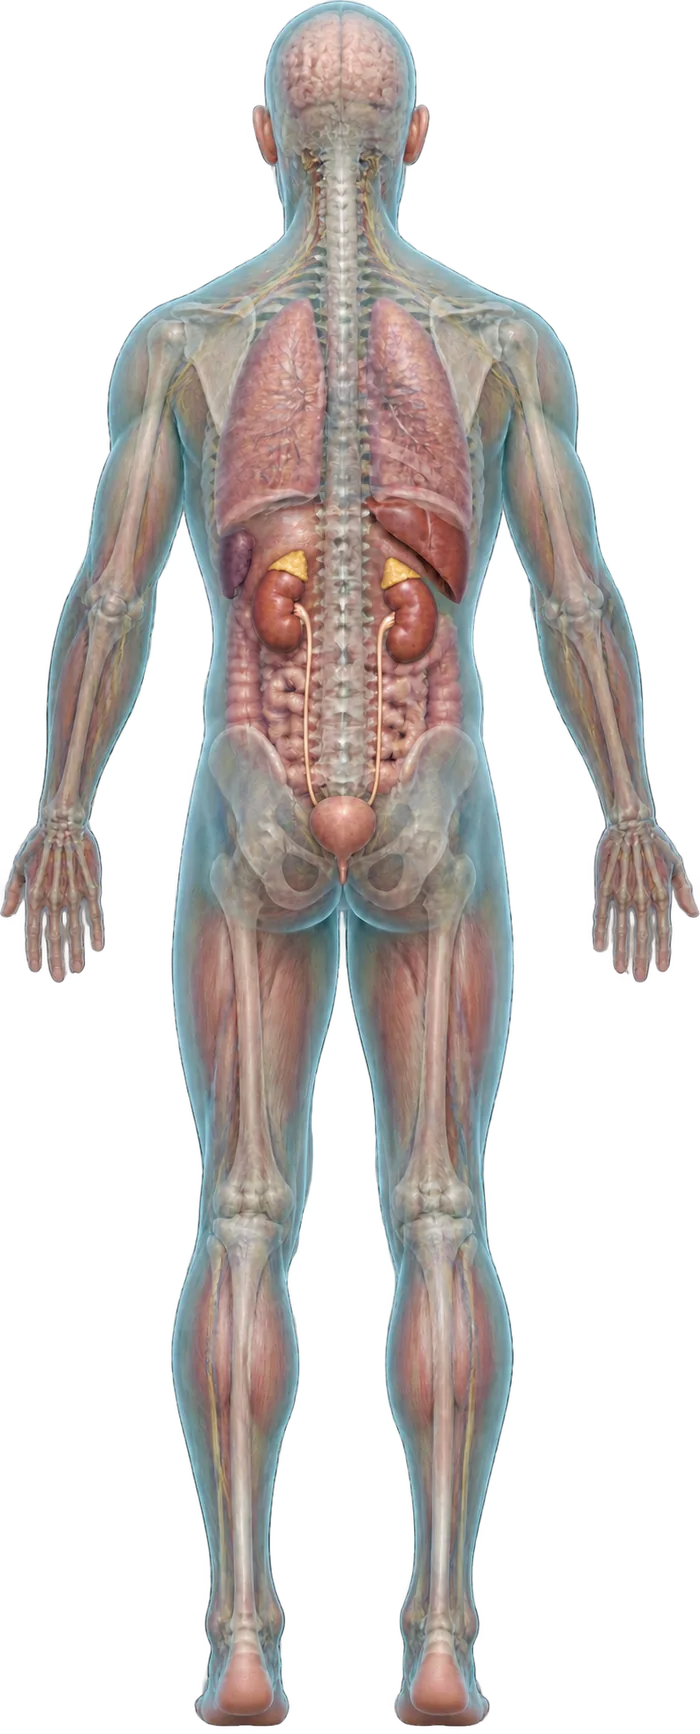
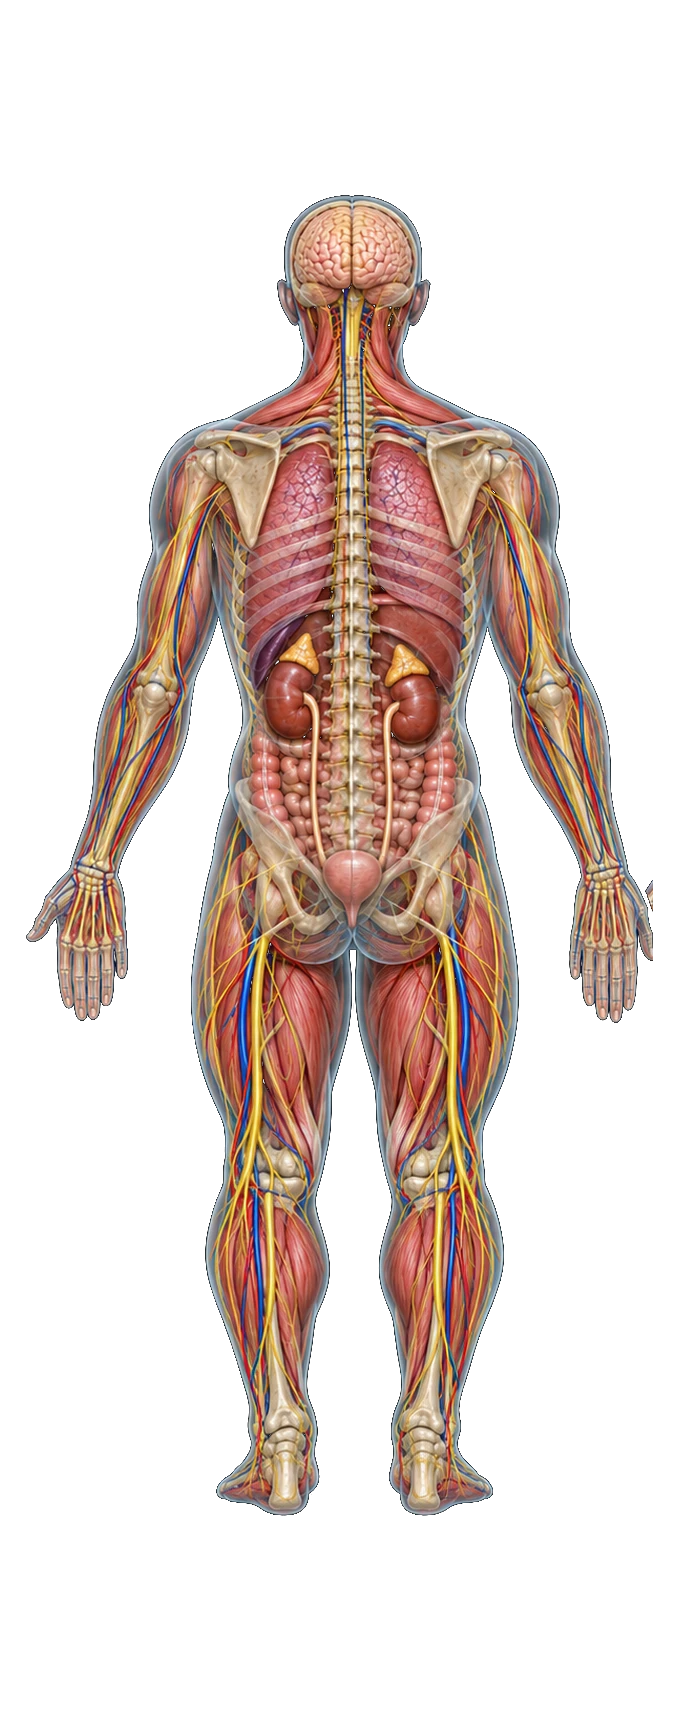
Anatomia: imagens novas sem texto (frente e costas) e areas recalibradas
- Ilustracao nova, sem rotulos, recortada em frente e costas, centrada na
  linha media e reduzida para caber inteira (com as maos), fundo transparente.
- A vista de costas veio com figado e baco trocados de lado: espelhada, para o
  lado direito da pessoa ficar a direita da tela.
- ORGAOS_FRENTE, ORGAOS_COSTAS e PULMOES_FRENTE medidos de novo numa grade do
  viewBox; area minima 10x10 para toque no celular.

Claude-Session: https://claude.ai/code/session_01NMsCMu7g1f9M4faJtZEJC5

diff --git a/frontend/src/components/formasCorpo.ts b/frontend/src/components/formasCorpo.ts
@@ -22,32 +22,34 @@ export interface OrgaoImagem {
 
 // Orgaos clicaveis (tem exames de sangue associados) — vista de frente.
 // Caixas medidas diretamente na imagem composta unica (orgaos-frente.webp,
-// 700x1725, desenhada com "slice": vx = 30.145 + px*0.37101, vy = 8 + py*0.37101).
-// Recalibradas em 2026-09 sobrepondo uma grade do viewBox na propria imagem.
+// 700x1734, desenhada com "slice": vx = 30.819 + px*0.36909, vy = 8 + py*0.36909).
+// Recalibradas em 2026-09 (imagem nova, sem texto) sobrepondo uma grade do viewBox.
 // Itens sem imagem propria (arquivo '') aparecem so como area de clique.
+// Areas com no minimo 10x10 no viewBox, para dar para tocar no celular.
 export const ORGAOS_FRENTE: OrgaoImagem[] = [
-  { id: 'hipofise', sistema: 'hormonios', nome: 'Hipófise', arquivo: '', proporcao: 1, caixa: { x: 155, y: 44, w: 10, h: 8 } },
-  { id: 'tireoide', sistema: 'tireoide', nome: 'Tireoide', arquivo: '', proporcao: 1, caixa: { x: 148, y: 95, w: 25, h: 13 } },
-  { id: 'coracao', sistema: 'coracao', nome: 'Coração', arquivo: '', proporcao: 1, caixa: { x: 151, y: 145, w: 40, h: 50 } },
-  { id: 'figado', sistema: 'figado', tambem: ['proteinas'], nome: 'Fígado', arquivo: '', proporcao: 1, caixa: { x: 112, y: 193, w: 66, h: 35 } },
-  { id: 'baco', sistema: 'sangue', nome: 'Baço', arquivo: '', proporcao: 1, caixa: { x: 200, y: 196, w: 12, h: 31 } },
-  { id: 'pancreas', sistema: 'pancreas', nome: 'Pâncreas', arquivo: '', proporcao: 1, caixa: { x: 145, y: 227, w: 53, h: 18 } },
-  // Corrigido: rim DIREITO da pessoa fica a ESQUERDA da tela (vista de frente).
-  { id: 'rimD', sistema: 'rins', nome: 'Rim direito', arquivo: '', proporcao: 1, caixa: { x: 121, y: 233, w: 22, h: 27 } },
-  { id: 'rimE', sistema: 'rins', nome: 'Rim esquerdo', arquivo: '', proporcao: 1, caixa: { x: 187, y: 233, w: 20, h: 26 } },
-  { id: 'adrenalD', sistema: 'hormonios', nome: 'Suprarrenal direita', arquivo: '', proporcao: 1, caixa: { x: 127, y: 226, w: 12, h: 7 } },
-  { id: 'adrenalE', sistema: 'hormonios', nome: 'Suprarrenal esquerda', arquivo: '', proporcao: 1, caixa: { x: 189, y: 226, w: 12, h: 7 } },
-  { id: 'bexiga', sistema: 'rins', nome: 'Bexiga', arquivo: '', proporcao: 1, caixa: { x: 148, y: 335, w: 23, h: 16 } },
-  { id: 'prostata', sistema: 'prostata', nome: 'Próstata', arquivo: '', proporcao: 1, caixa: { x: 153, y: 351, w: 14, h: 10 } },
+  { id: 'hipofise', sistema: 'hormonios', nome: 'Hipófise', arquivo: '', proporcao: 1, caixa: { x: 155, y: 106, w: 10, h: 10 } },
+  { id: 'tireoide', sistema: 'tireoide', nome: 'Tireoide', arquivo: '', proporcao: 1, caixa: { x: 152, y: 139, w: 16, h: 10 } },
+  { id: 'coracao', sistema: 'coracao', nome: 'Coração', arquivo: '', proporcao: 1, caixa: { x: 149, y: 195, w: 28, h: 31 } },
+  { id: 'figado', sistema: 'figado', tambem: ['proteinas'], nome: 'Fígado', arquivo: '', proporcao: 1, caixa: { x: 119, y: 224, w: 53, h: 34 } },
+  { id: 'baco', sistema: 'sangue', nome: 'Baço', arquivo: '', proporcao: 1, caixa: { x: 190, y: 232, w: 10, h: 26 } },
+  { id: 'pancreas', sistema: 'pancreas', nome: 'Pâncreas', arquivo: '', proporcao: 1, caixa: { x: 151, y: 251, w: 37, h: 16 } },
+  // Rim DIREITO da pessoa fica a ESQUERDA da tela (vista de frente).
+  { id: 'rimD', sistema: 'rins', nome: 'Rim direito', arquivo: '', proporcao: 1, caixa: { x: 130, y: 259, w: 17, h: 22 } },
+  { id: 'rimE', sistema: 'rins', nome: 'Rim esquerdo', arquivo: '', proporcao: 1, caixa: { x: 177, y: 259, w: 16, h: 19 } },
+  // Suprarrenais nao aparecem de frente (ficam atras): area no topo de cada rim.
+  { id: 'adrenalD', sistema: 'hormonios', nome: 'Suprarrenal direita', arquivo: '', proporcao: 1, caixa: { x: 134, y: 251, w: 10, h: 10 } },
+  { id: 'adrenalE', sistema: 'hormonios', nome: 'Suprarrenal esquerda', arquivo: '', proporcao: 1, caixa: { x: 180, y: 251, w: 10, h: 10 } },
+  { id: 'bexiga', sistema: 'rins', nome: 'Bexiga', arquivo: '', proporcao: 1, caixa: { x: 146, y: 324, w: 25, h: 19 } },
+  { id: 'prostata', sistema: 'prostata', nome: 'Próstata', arquivo: '', proporcao: 1, caixa: { x: 154, y: 344, w: 10, h: 10 } },
   // A ilustracao nao desenha a genitalia: area esquematica logo abaixo do pube.
-  { id: 'testiculos', sistema: 'testiculos', nome: 'Testículos (região escrotal)', arquivo: '', proporcao: 1, caixa: { x: 151, y: 366, w: 18, h: 13 } },
+  { id: 'testiculos', sistema: 'testiculos', nome: 'Testículos (região escrotal)', arquivo: '', proporcao: 1, caixa: { x: 154, y: 354, w: 12, h: 10 } },
 ]
 
 // Recorte (dentro da propria imagem composta) usado so para a animacao de
 // respiracao via clip-path — nao sao clicaveis, nao tem sistema associado.
 export const PULMOES_FRENTE = {
-  pulmaoD: { x: 94, y: 122, w: 49, h: 73 },
-  pulmaoE: { x: 182, y: 122, w: 45, h: 73 },
+  pulmaoD: { x: 119, y: 169, w: 34, h: 60 },
+  pulmaoE: { x: 171, y: 169, w: 33, h: 60 },
 }
 
 // --- Vista de COSTAS -------------------------------------------------------
@@ -56,17 +58,18 @@ export const PULMOES_FRENTE = {
 // sobre a imagem: vx = 30.819 + px*0.36909, vy = 8 + py*0.36909.
 // Na vista de costas o lado DIREITO da pessoa fica a DIREITA da tela
 // (figado e rim direito a direita; baco e rim esquerdo a esquerda).
+// A ilustracao original vinha com figado/baco trocados de lado: foi espelhada.
 // Nao aparecem nesta imagem: coracao, pancreas, tireoide, testiculos.
 export const ORGAOS_COSTAS: OrgaoImagem[] = [
-  { id: 'figado', sistema: 'figado', tambem: ['proteinas'], nome: 'Fígado', arquivo: '', proporcao: 1, caixa: { x: 168, y: 191, w: 40, h: 38 } },
-  { id: 'baco', sistema: 'sangue', nome: 'Baço', arquivo: '', proporcao: 1, caixa: { x: 113, y: 203, w: 12, h: 26 } },
-  { id: 'rimD', sistema: 'rins', nome: 'Rim direito', arquivo: '', proporcao: 1, caixa: { x: 168, y: 218, w: 26, h: 38 } },
-  { id: 'rimE', sistema: 'rins', nome: 'Rim esquerdo', arquivo: '', proporcao: 1, caixa: { x: 126, y: 218, w: 26, h: 38 } },
+  { id: 'figado', sistema: 'figado', tambem: ['proteinas'], nome: 'Fígado', arquivo: '', proporcao: 1, caixa: { x: 169, y: 224, w: 30, h: 28 } },
+  { id: 'baco', sistema: 'sangue', nome: 'Baço', arquivo: '', proporcao: 1, caixa: { x: 126, y: 236, w: 13, h: 25 } },
+  { id: 'rimD', sistema: 'rins', nome: 'Rim direito', arquivo: '', proporcao: 1, caixa: { x: 174, y: 257, w: 19, h: 26 } },
+  { id: 'rimE', sistema: 'rins', nome: 'Rim esquerdo', arquivo: '', proporcao: 1, caixa: { x: 129, y: 253, w: 18, h: 28 } },
   // Depois dos rins: ficam por cima deles e recebem o clique na sobreposicao.
-  { id: 'adrenalD', sistema: 'hormonios', nome: 'Suprarrenal direita', arquivo: '', proporcao: 1, caixa: { x: 172, y: 213, w: 14, h: 11 } },
-  { id: 'adrenalE', sistema: 'hormonios', nome: 'Suprarrenal esquerda', arquivo: '', proporcao: 1, caixa: { x: 131, y: 211, w: 14, h: 11 } },
-  { id: 'bexiga', sistema: 'rins', nome: 'Bexiga', arquivo: '', proporcao: 1, caixa: { x: 146, y: 302, w: 24, h: 20 } },
-  { id: 'prostata', sistema: 'prostata', nome: 'Próstata', arquivo: '', proporcao: 1, caixa: { x: 154, y: 321, w: 9, h: 11 } },
+  { id: 'adrenalD', sistema: 'hormonios', nome: 'Suprarrenal direita', arquivo: '', proporcao: 1, caixa: { x: 174, y: 246, w: 14, h: 12 } },
+  { id: 'adrenalE', sistema: 'hormonios', nome: 'Suprarrenal esquerda', arquivo: '', proporcao: 1, caixa: { x: 137, y: 243, w: 11, h: 12 } },
+  { id: 'bexiga', sistema: 'rins', nome: 'Bexiga', arquivo: '', proporcao: 1, caixa: { x: 151, y: 322, w: 20, h: 19 } },
+  { id: 'prostata', sistema: 'prostata', nome: 'Próstata', arquivo: '', proporcao: 1, caixa: { x: 156, y: 341, w: 10, h: 10 } },
 ]
 
 // ---------------------------------------------------------------------------

diff --git a/CLAUDE.md b/CLAUDE.md
@@ -70,6 +70,17 @@ Code separado com uma ferramenta de imagem que esta sessao de chat nao tem.
   arquivos prontos em `imagens-anatomia/camadas/` e `costas/` fora do repo,
   nao processados ainda).
 
+## Imagens de anatomia novas (2026-09)
+- `orgaos-frente.webp` e `costas/orgaos-costas.webp` trocadas por uma ilustracao
+  nova, SEM texto (as duas vistas vieram numa imagem so; recortadas, centradas
+  na linha media e reduzidas para caber inteiras com as maos, 700x1734 com
+  fundo transparente). A vista de costas veio com figado/baco do lado errado e
+  foi ESPELHADA (de costas, figado a direita da tela).
+- Todas as caixas de `ORGAOS_FRENTE`, `ORGAOS_COSTAS` e `PULMOES_FRENTE` foram
+  medidas de novo numa grade do viewBox (vx = 30.819 + px*0.36909,
+  vy = 8 + py*0.36909), com area minima de 10x10 para toque no celular.
+- A secao abaixo descreve a calibracao da imagem ANTERIOR (so historico).
+
 ## Auditoria da anatomia (2026-09)
 - Caixas de `ORGAOS_FRENTE` recalibradas com uma grade do viewBox desenhada
   sobre `orgaos-frente.webp` (vx = 30.145 + px*0.37101, vy = 8 + py*0.37101).
